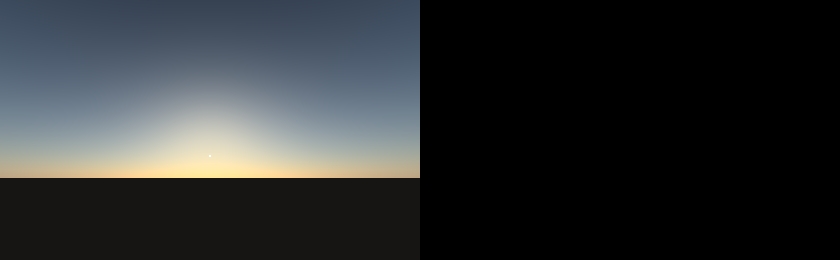
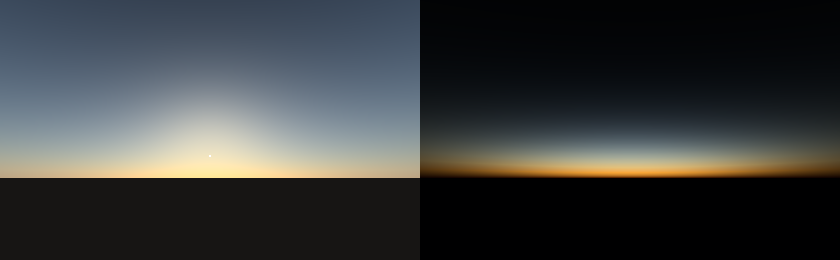
Time lapse with dark adaptation; figure index

Changed region(s): [[0.4952, 0.3385, 1.0, 0.7077]]

diff --git a/experiments/07_timelapse.py b/experiments/07_timelapse.py
@@ -19,7 +19,7 @@ FRAMES = 26
 SUN_FROM, SUN_TO = 8.0, -8.0
 #: the eye (and a camera's auto exposure) dark-adapts; without this the last
 #: frames would be black.  The model itself has no such adaptation.
-ADAPT_DECADES = 1.9
+ADAPT_DECADES = 3.2
 
 
 def main():

diff --git a/figures/README.md b/figures/README.md
@@ -1,0 +1,25 @@
+# Figure index
+
+All figures are regenerated by the scripts in `experiments/`.
+
+| File | Script | What it shows |
+|---|---|---|
+| `01_day_cycle_chromaticity.png` | `01_day_cycle.py` | Colour of the zenith and horizon through the day, on a CIE diagram, with luminance |
+| `01_day_cycle_panorama.png` | `01_day_cycle.py` | The same day as a stack of panoramas |
+| `02_twilight_luminance.png` | `02_twilight.py` | Twilight brightness vs Patat et al. (2006); where the model fails below −8° |
+| `02_twilight_zenith_xy.png` | `02_twilight.py` | Zenith chromaticity through twilight |
+| `02_twilight_fisheye.png` | `02_twilight.py` | Nine fisheye views from −1° to −10°, showing the earth's shadow |
+| `03_aerosol_loading.png` | `03_aerosol.py` | AOD sweep: colour and brightness |
+| `03_aerosol_types.png` | `03_aerosol.py` | Continental / haze / maritime / dust / smoke at the same AOD |
+| `03_haze_progression.png` | `03_aerosol.py` | The same scene with increasing haze |
+| `04_heterogeneity_curve.png` | `04_heterogeneity.py` | Horizon colour when the haze is near vs far |
+| `04_heterogeneity_panorama.png` | `04_heterogeneity.py` | The same, as images |
+| `05_altitude.png` | `05_altitude_latitude.py` | Zenith colour and brightness vs observer altitude |
+| `05_altitude_views.png` | `05_altitude_latitude.py` | The view from 0 to 4.5 km |
+| `05_twilight_duration.png` | `05_altitude_latitude.py` | Civil twilight duration vs latitude and season |
+| `06_gallery_day.png` | `06_gallery.py` | Contact sheet: a day and a sunset |
+| `06_gallery_air.png` | `06_gallery.py` | Contact sheet: eight atmospheres |
+| `06_hero_sunset.png` | `06_gallery.py` | A sunset, large |
+| `06_hero_hazy.png` | `06_gallery.py` | A hazy afternoon, large |
+| `07_sunset.gif` | `07_timelapse.py` | 26-frame sunset with dark adaptation |
+| `07_sunset_ends.png` | `07_timelapse.py` | First and last frame |
